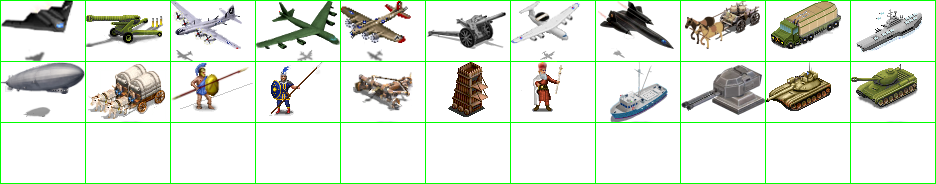
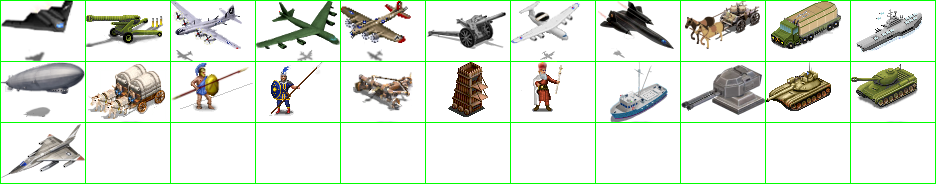
Unit Graphics

Changed region(s): [[0.0, 0.6793, 0.0929, 0.9511]]

diff --git a/freeciv-web/src/main/webapp/javascript/emoji_list.js b/freeciv-web/src/main/webapp/javascript/emoji_list.js
@@ -605,6 +605,7 @@ var freemoji = [
 'heavybomber',
 'strategicbomber',
 'jetbomber',
+'penetrationbomber',
 'stealthbomber',
 'transporthelicopter',
 'helicopter',
